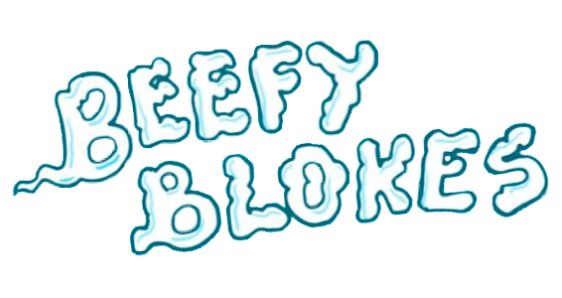
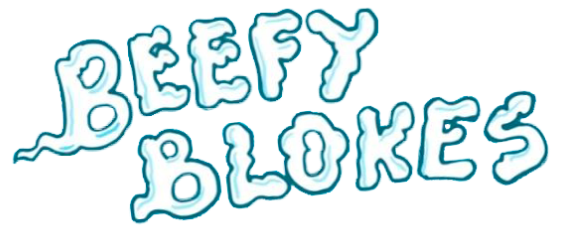
Centered Beefy Blokes

Changed region(s): [[0.0, 0.0306, 0.9982, 0.9782]]

diff --git a/components/Landing/LandingContent.tsx b/components/Landing/LandingContent.tsx
@@ -9,8 +9,8 @@ const btnResponsiveW = 'sm:w-60 md:w-64 lg:w-72 xl:w-80 2xl:w-96'
 export default function LandingContent() {
     return (
         <section>
-            <div className='hidden sm:flex flex-col items-center h-full font-sniglet md:mt-2 lg:mt-2'>
-                <Image src={Wordmark} alt='Wordmark' className='sm:w-64 md:w-72 lg:w-96 xl:w-128 2xl:w-160  lg:mt-4' />
+            <div className='hidden sm:flex flex-col items-center h-full font-sniglet '>
+                <Image src={Wordmark} alt='Wordmark' className='sm:w-64 md:w-72 lg:w-96 xl:w-128 2xl:w-160  mb-10' />
                 <h1 className={`text-white font-sniglet ${textResponsive}`}>
                     1500 NFT&apos;s that embody Aussie culture, with unique Aussie traits.
                 </h1>

diff --git a/pages/index.tsx b/pages/index.tsx
@@ -14,7 +14,6 @@ export default function Home() {
       <div className='hidden md:block'>
         <Main>
           <LandingContent />
-       
         </Main>
       </div>
       <div className=' md:hidden'>
